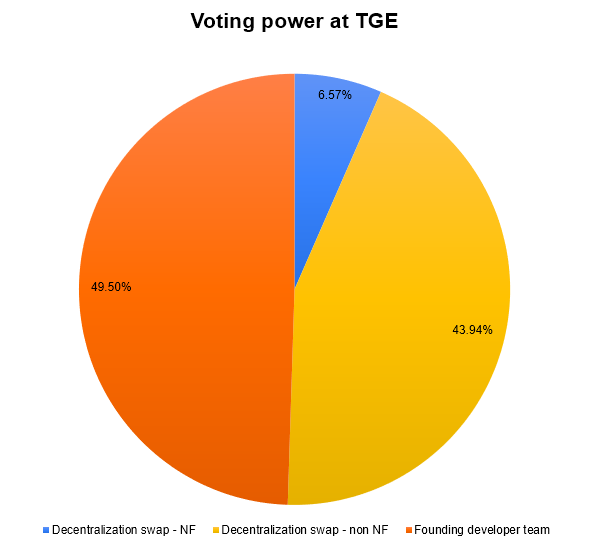
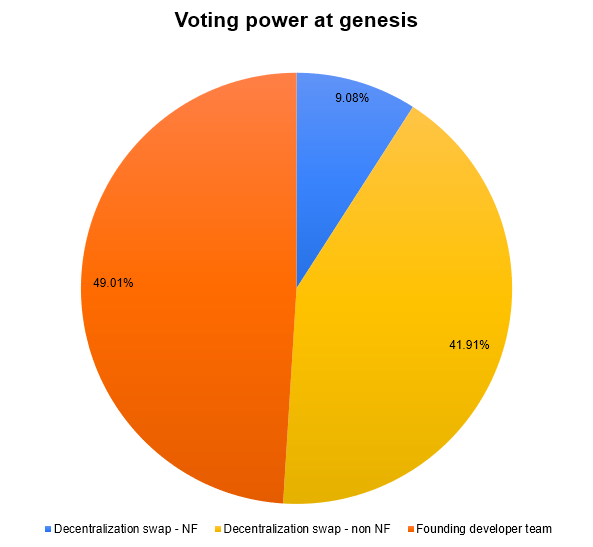
fix: config

diff --git a/whitepaper/tokenomics/inflation.md b/whitepaper/tokenomics/inflation.md
@@ -4,24 +4,24 @@ sidebar_position: 8
 
 # Inflation
 
-As specified in the configuration page, considering an initial reward of 4% and a final reward of 2% after 8 years, with an initial burning rate of 0.5% and a final burning rate of 2% after 10 years, the supply over time will evolve as follows:
+As specified in the configuration page, considering an initial reward of 4% and a final reward of 2% after 8 years, with an initial burning rate of 0.1% and a final burning rate of 2% after 10 years, the supply over time will evolve as follows:
 
 ![supply over time](./img/supply-over-time.png)
 
-| Year | Reward rate | Minted (NAT) | Burn rate | Burned (NAT) | Total supply (NAT) |
-|:----:|:-----------:|-------------:|-----------|-------------:|-------------------:|
-|   0  |    4.00%    |  4,000,000  |   0.50%   |   -500,000  |    100,000,000    |
-|   1  |    3.53%    |  3,654,844  |   0.57%   |   -594,451  |    103,500,000    |
-|   2  |    3.13%    |  3,330,012  |   0.66%   |   -703,036  |    106,560,392    |
-|   3  |    2.78%    |  3,036,774  |   0.76%   |   -827,486  |    109,187,368    |
-|   4  |    2.50%    |  2,784,916  |   0.87%   |   -969,764  |    111,396,656    |
-|   5  |    2.28%    |  2,582,644  |   1.00%   |  -1,132,118 |    113,211,809    |
-|   6  |    2.13%    |  2,436,575  |   1.15%   |  -1,317,124 |    114,662,335    |
-|   7  |    2.03%    |  2,351,818  |   1.32%   |  -1,527,750 |    115,781,785    |
-|   8  |    2.00%    |  2,332,117  |   1.52%   |  -1,767,414 |    116,605,853    |
-|   9  |    2.00%    |  2,343,411  |   1.74%   |  -2,040,058 |    117,170,556    |
-|  10  |    2.00%    |  2,349,478  |   2.00%   |  -2,349,478 |    117,473,909    |
-|  11  |    2.00%    |  2,349,478  |   2.00%   |  -2,349,478 |    117,473,909    |
-|  12  |    2.00%    |  2,349,478  |   2.00%   |  -2,349,478 |    117,473,909    |
+| Year | Reward rate | Minted (NAT) | Burn rate | Burned (NAT) | Total supply   (NAT) |
+|:----:|:-----------:|-------------:|----------:|-------------:|---------------------:|
+|   0  |    4.00%    |   4,000,000  |   0.10%   |   -100,000   |      100,000,000     |
+|   1  |    3.53%    |   3,668,969  |   0.13%   |   -140,190   |      103,900,000     |
+|   2  |    3.13%    |   3,357,149  |   0.18%   |   -195,581   |      107,428,778     |
+|   3  |    2.78%    |   3,075,794  |   0.25%   |   -271,660   |      110,590,347     |
+|   4  |    2.50%    |   2,834,862  |   0.33%   |   -375,841   |      113,394,480     |
+|   5  |    2.28%    |   2,642,908  |   0.45%   |   -518,113   |      115,853,501     |
+|   6  |    2.13%    |   2,507,039  |   0.60%   |   -711,902   |      117,978,297     |
+|   7  |    2.03%    |   2,432,898  |   0.81%   |   -975,173   |      119,773,434     |
+|   8  |    2.00%    |   2,424,623  |   1.10%   |  -1,331,798  |      121,231,159     |
+|   9  |    2.00%    |   2,446,480  |   1.48%   |  -1,813,170  |      122,323,985     |
+|  10  |    2.00%    |   2,459,146  |   2.00%   |  -2,459,146  |      122,957,294     |
+|  11  |    2.00%    |   2,459,146  |   2.00%   |  -2,459,146  |      122,957,294     |
+|  12  |    2.00%    |   2,459,146  |   2.00%   |  -2,459,146  |      122,957,294     |
 
 Note: The presented burn rate is a theoretical value. Tokens can be burned by proposals and are also burned when every match is finished (read the Token section). The popularity of the platform directly influences the amount of $NAT that will be burned.

diff --git a/whitepaper/roadmap/q3-2024.md b/whitepaper/roadmap/q3-2024.md
@@ -10,18 +10,16 @@ With the SNS DAO funds, we will be able to expand the team, hiring developers, 3
 Promote the platform through game and crypto influencers in the social media channels to reach a wider audience.  
 Initiate partnerships with game development teams and NFT publishers to attract third-party content creators to the platform.
 
-3. **Release the first NFT**  
-The first NFT, for now called "Brains", a collection of zombies obsessed with brains, will be released by the DAO itself.  
-The code will be open-sourced when finished and will help other NFT creators to design their own collections.  
-**The Neural Arena DAO will be the sole owner of the collection** (the canisters and the source-code) and all earnings will be transferred to its treasury.
-
-4. **Publish the first game**  
-The first game, currently called "Rusty Circuit", a collection of post apocalyptic arenas where the AI players compete fighting against NPC's, will be released by the DAO too.  
-The code will be open-sourced when finished and will help other game developers to design their own games.  
-**The Neural Arena DAO will be the sole owner of the game** (the canisters and the source-code) and all earnings will be transferred to its treasury.
-
-5. **Write the documentation**  
+3. **Write the documentation**  
 It should include guides, examples, and technical docs about the platform, enabling developers to start creating games and NFTs.
 
+4. **Release the first NFT**  
+The first NFT, for now called "Brains", a collection of zombies obsessed with brains, will be released by the DAO itself.  
+The code will be open-sourced when finished and will help other NFT creators to design their own collections.  
+**The Neural Arena DAO will be the sole owner of the collection** (the canisters and the source-code) and <u>**all earnings will be transferred to its treasury**</u>.
 
+5. **Publish the first game**  
+The first game, currently called "Rusty Circuit", a collection of post apocalyptic arenas where the AI players compete fighting against NPC's, will be released by the DAO too.  
+The code will be open-sourced when finished and will help other game developers to design their own games.  
+**The Neural Arena DAO will be the sole owner of the game** (the canisters and the source-code) and <u>**all earnings will be transferred to its treasury**</u>.
 

diff --git a/whitepaper/tokenomics/token.md b/whitepaper/tokenomics/token.md
@@ -17,7 +17,9 @@ After every match finishes, all NAT tokens paid by participating players are dis
 ### Game creator + Match winner (85%)
 The game creator will always receive the largest portion of the earnings. This is because the game canister will utilize its Cycles (which must be purchased using ICPs) to cover the costs of running the matches on the Internet Computer. Depending on the complexity of the game, billions of instructions may need to be executed for each player until the match is concluded.  
 
-In addition to enhancing the rarity and value of their NFTs by gaining experience (XP), winners can also receive a portion of the tokens. It's up to the game to determine the amount it will distribute to the match's winner. For instance, if the game allocates 25% of the total match revenue to the winning player, and there are at least 4 players in a single match, the winner will have upgraded their NFT at no cost.
+In addition to enhancing the rarity and value of their NFTs by gaining experience (XP), winners can also receive a portion of the tokens. It's up to the game to determine the amount it will distribute to the match's winner. For instance, if the game allocates 25% of the total match revenue to the winning player, and there are at least 4 players in a single match, the winner will have upgraded their NFT at no cost. Considering the same allocation, if more than 4 players participated, then the winner will earn more NAT than he/she spent to join the match.
+
+The larger the portion allocated to the winner by the game, the more attractive and popular the game may become.
 
 ### Platform treasury (10%)
 As a fee, the platform will deduct 10% of the earnings from each match, which will be transferred directly to the DAO's treasury account.

diff --git a/whitepaper/tokenomics/valuation.md b/whitepaper/tokenomics/valuation.md
@@ -5,12 +5,12 @@ title: Valuation
 
 # Valuation and price range
 
-With 35% of the total supply for sale, the valuation (market cap) and price of each NAT token will be:
+With 35% of the total supply for sale, the range of both valuation (market cap) and price of each NAT token will be:
 
 | Raised directly (ICP) | Raised NF (ICP) | Valuation (ICP) | Token price (ICP) | Valuation (USD) | Token price (USD) |
 | --------------------: | --------------: | --------------: | ----------: | --------------: | ----------: |
-| 100,000 | 65,000 | 471,428 | 0.00471 | $ 5,657,136 | $ 0.05652 |
-| 500,000 | 65,000 | 1,614,285 | 0.01614 | $ 19,371,420 | $ 0.19368 |
+| 150,000 | 65,000 | 614,285 | 0.00614 | $ 7,371,420 | $ 0.07371 |
+| 300,000 | 65,000 | 1,042,857 | 0.01042 | $ 12,514,285 | $ 0.12514 |
 
 Notes: 
 1. Assuming 65,000 ICP as the Neuro Fund (NF) participation; however, this value can fluctuate daily and will only be known exactly when the swap ends.

diff --git a/whitepaper/tokenomics/config.md b/whitepaper/tokenomics/config.md
@@ -18,14 +18,14 @@ The initial configuration parameters of the SNS decentralization sale/swap will 
 | Transition duration | 8 years |
 | Ledger transaction fee (NAT) | 0.1 |
 | Proposal rejection fee (NAT) | 100 |
-| Minimum direct participation (ICP) | 100,000 |
-| Maximal direct participation (ICP) | 500,000 |
+| Minimum direct participation (ICP) | 150,000 |
+| Maximal direct participation (ICP) | 300,000 |
 | Mininum individual participation (ICP) | 1 |
 | Maximal individual participation (ICP) | 100,000 |
 | Minimum participants | 100 |
 | Minimum dissolve delay | 6 months |
 | Maximum dissolve delay | 4 years |
-| Dissolve delay bonus | 110% |
+| Dissolve delay bonus | 120% |
 | Minimal neuron stake (NAT) | 10 |
 | Maximum neuron age | 8 years |
 | Age bonus | 200% |

diff --git a/whitepaper/tokenomics/governance.md b/whitepaper/tokenomics/governance.md
@@ -16,7 +16,7 @@ With the parameters defined at the configuration page, the voting power at genes
 
 ![voting power at TGE](./img/voting-power-tge.png)
 
-In conclusion, as illustrated in the chart above, the team will possess less voting power than the other participants: 49.5% vs 50.5%.
+In conclusion, as illustrated in the chart above, the team will possess less voting power than the other participants: 49.01% vs 50.99%.
 
 ## First proposals
 
